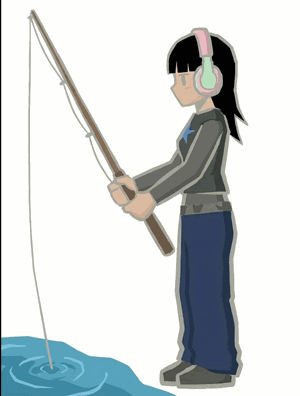
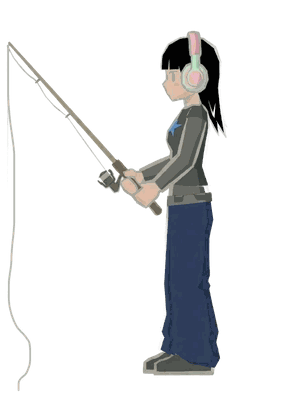
Use removed-bg fishing illustration, position amy on shore not water

Changed region(s): [[0.0, 0.0, 0.84, 1.0]]

diff --git a/app/fishing/page.tsx b/app/fishing/page.tsx
@@ -225,15 +225,17 @@ export default function FishingGame() {
           <img src="/graphics/cloud2.png" alt="" width={60} height={25}
             className="absolute top-[6%] right-[8%] opacity-50" />
 
-          {/* amy fishing illustration */}
+          {/* amy fishing illustration — standing on shore at water line */}
           {/* eslint-disable-next-line @next/next/no-img-element */}
           <img
             src="/graphics/amy-fishing.png"
             alt="amy fishing"
-            width={120}
-            height={159}
-            className="absolute bottom-[18%] right-[8%] z-10 drop-shadow-md"
+            width={110}
+            height={145}
+            className="absolute z-10 drop-shadow-md"
             style={{
+              right: "4%",
+              bottom: "56%",
               transform: state === "bite" ? "translateY(-2px)" : "translateY(0)",
               transition: "transform 0.2s ease",
             }}
